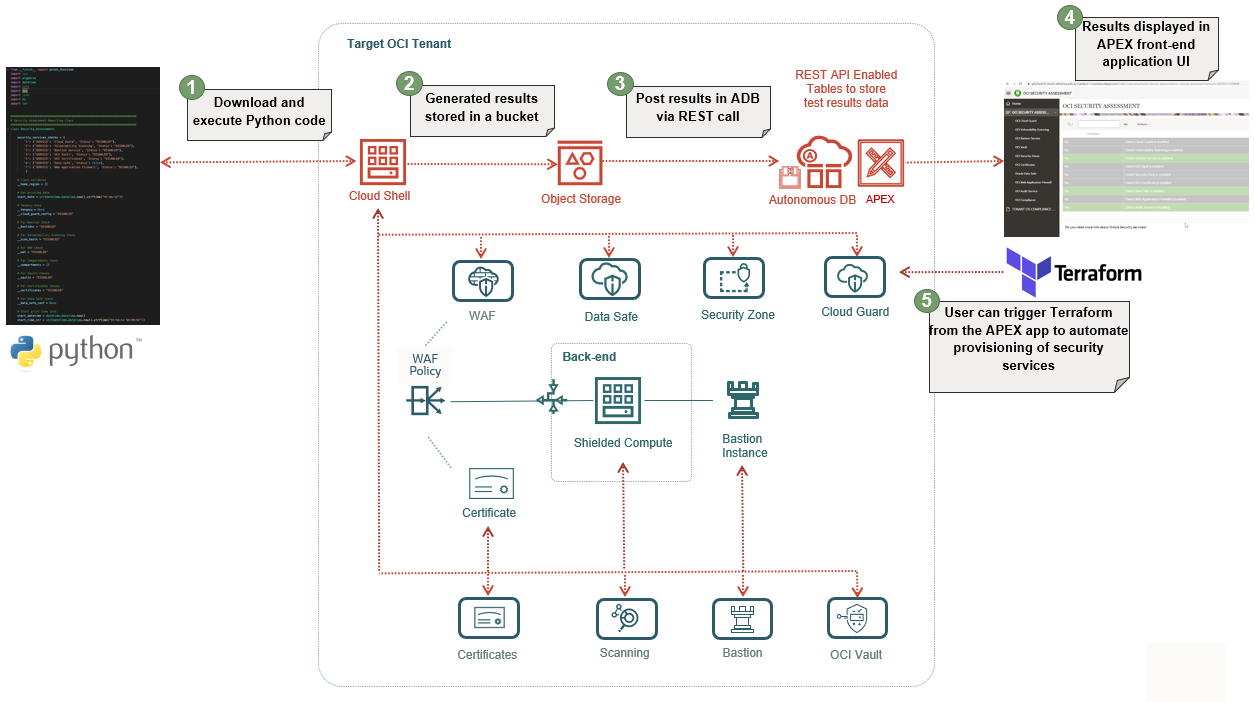
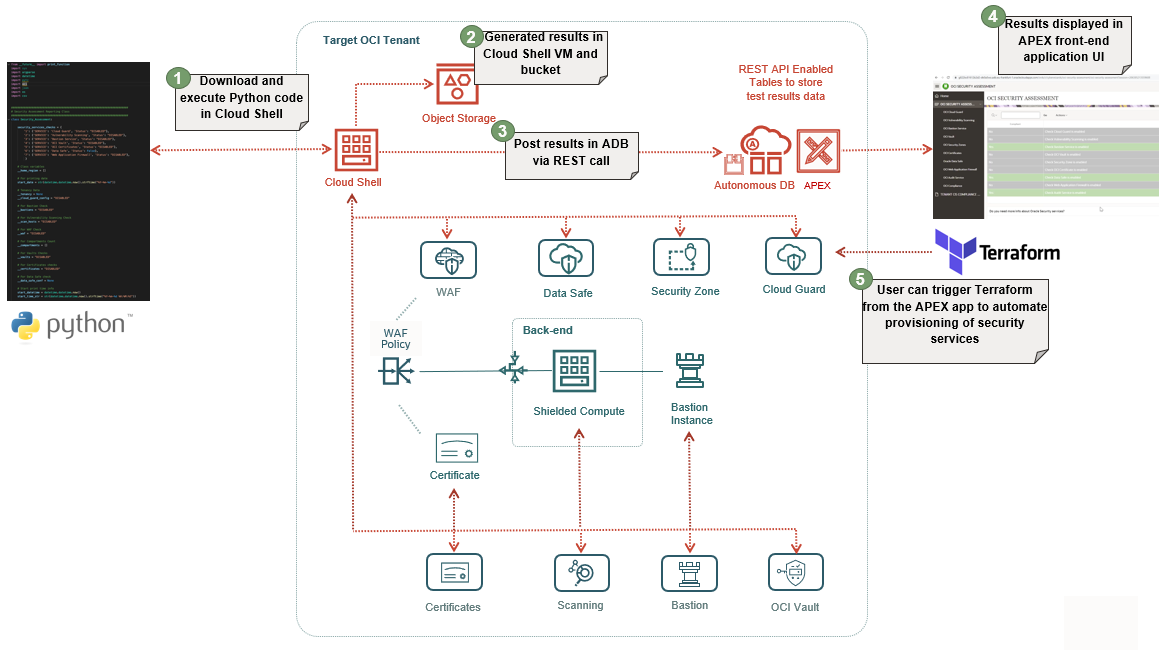
QandA
QandA

diff --git a/security-experience/introduction/introduction.md b/security-experience/introduction/introduction.md
@@ -27,11 +27,11 @@ Estimated Workshop Time: 2 hours 30 minutes (this estimate is for the entire wor
 
 ## Objectives
 
-* Execute your first security assessment by launching the provided Python script in Oracle Cloud Shell (Oracle Cloud Shell is a Linux terminal provided by Oracle Cloud to run scripts on your OCI tenant). The script generates your security assessment reports in excel format, and stores the excel files in an Object Storage bucket.
-* Send the security assessment reports from the bucket to an Autonomous Database table via REST API calls.
+* Execute your first security assessment by launching a script (provided in this workshop) in Oracle Cloud Shell (Oracle Cloud Shell is a web browser-based terminal accessible from the Oracle Cloud Console, and provides an ephemeral machine to use as a host for a Linux shell). The script generates your security assessment reports in excel format, and stores the excel files in the Linux host and in an Object Storage bucket.
+* Send the security assessment reports from the Cloud Shell Linux machine to an Autonomous Database table via REST API calls.
 * Deploy the provided APEX application (Security Center dashboard) in the APEX instance hosted in the Autonomous Database.
 * Check all results of your security assessments in the Security Center dashboard, and navigate through the different pages to check available security services that you could deploy in OCI.
-* Optionally, enable one security service automatically (Cloud Guard) via the Security Center dashboard by using Terraform.
+* Optionally, enable one security service automatically (Cloud Guard) via a Security Center dashboard by using Terraform.
 
 Below you can see the architecture components for this Unique Security Experience:
 
